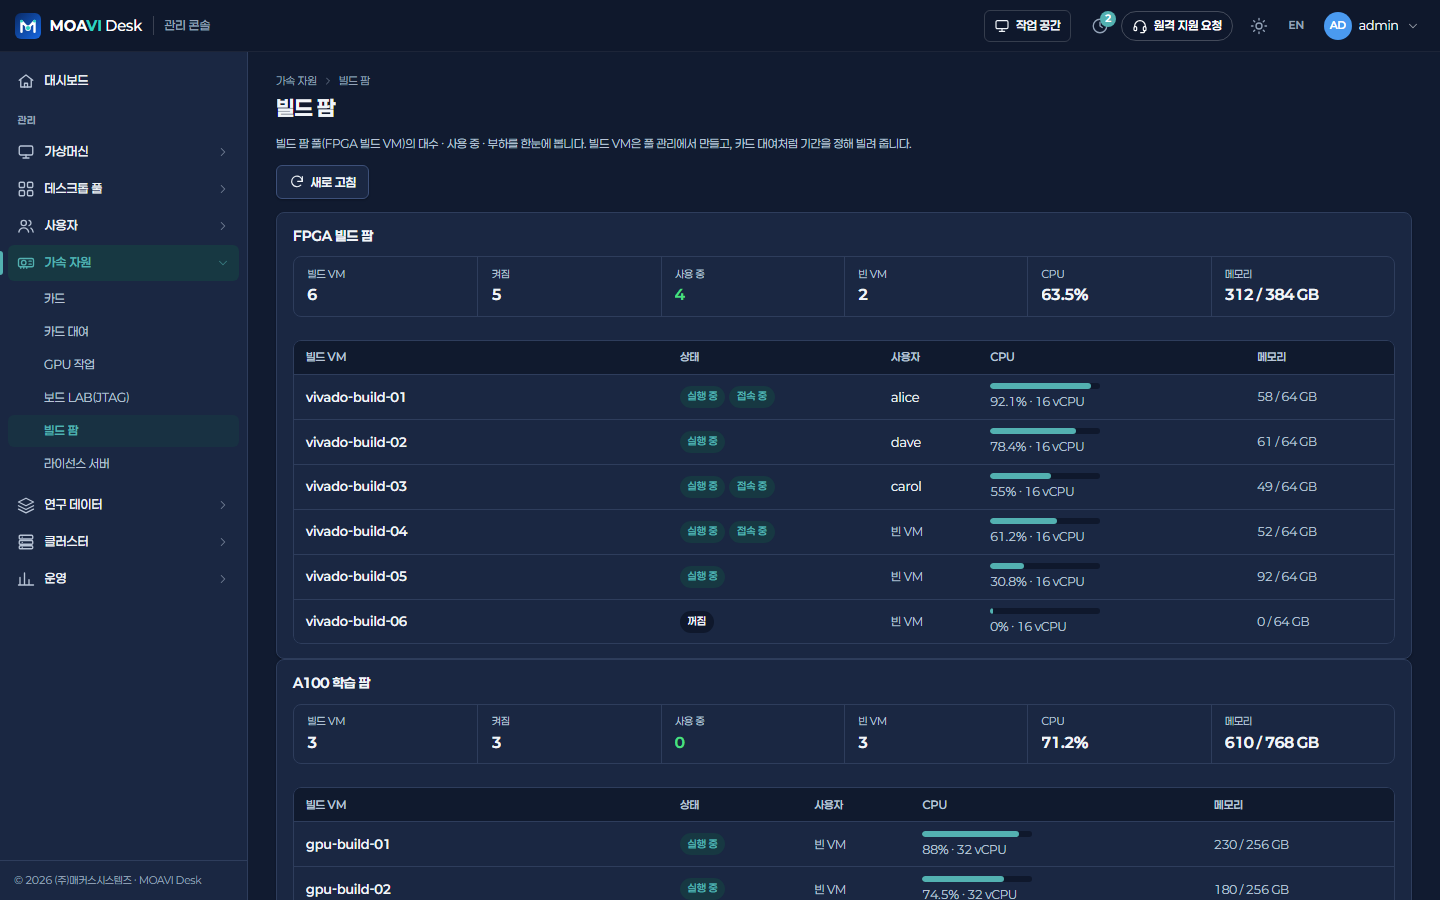
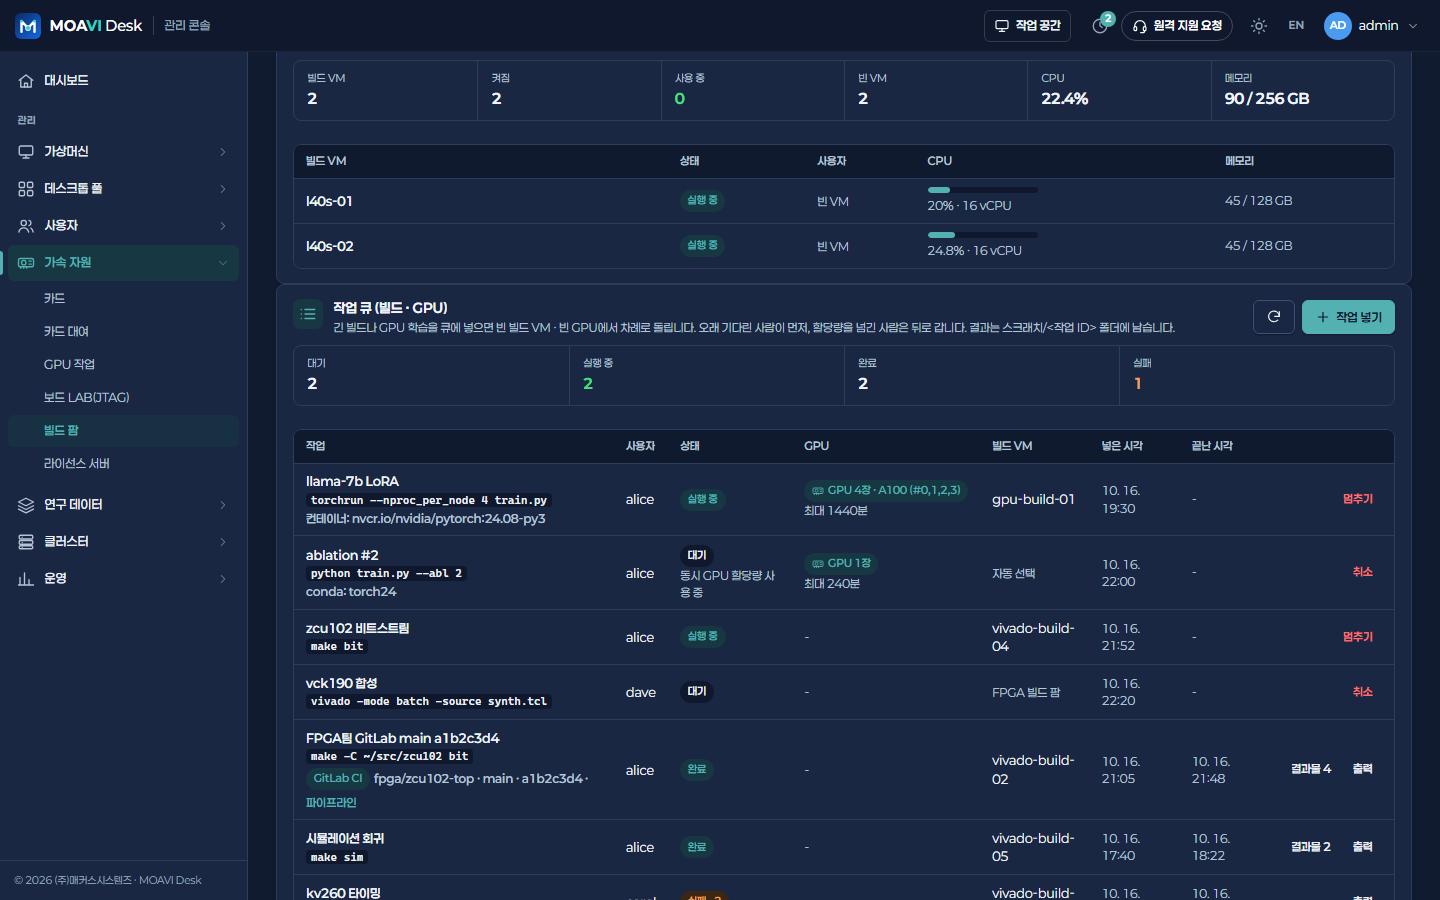
README: growth forecast, build results kept, CI connections, card / board bookings; deploy guide: the artifacts folder and CI calls

diff --git a/README.md b/README.md
@@ -71,8 +71,8 @@
 
 | | |
 |---|---|
-| **대시보드** — 상태 점수, CPU · 메모리 · VM · 접속 추이(24시간 · 7일 · 30일), 노드별 CPU, 활성 경보, 자원 제안(증설 · 회수) | |
-| ![대시보드](docs/images/admin-dashboard.png) | |
+| **대시보드** — 상태 점수, CPU · 메모리 · VM · 접속 추이(24시간 · 7일 · 30일), 노드별 CPU, 활성 경보, 자원 제안(증설 · 회수) | **증설 예측** — 날마다 쌓은 CPU · 메모리 · 스토리지 · 동시 접속 · 카드 사용의 추세선으로 기준에 닿는 날을 계산, 급한 것부터(30 · 90 · 180일) |
+| ![대시보드](docs/images/admin-dashboard.png) | ![증설 예측](docs/images/forecast.png) |
 
 **가상머신** — 데스크톱(VM) › 목록 · VM 만들기 · ISO · 이미지 · 풀별 상태, 이미지 › 템플릿 · 골든 이미지 · 환경 카탈로그
 
@@ -126,7 +126,7 @@
 | **일정 · 예약 › 사용 일정** — LAB × 일정형 풀 × 요일 · 시간의 주간 시간표, 시작 전 준비(빗금)와 끝난 뒤 초기화 | **예약 사용 보고서** (운영 › 보고서) — 예약 시간 대비 실제 사용, 노쇼, CSV |
 | ![LAB 사용 일정](docs/images/lab-schedules.png) | ![예약 보고서](docs/images/reservation-report.png) |
 
-**가속 자원** (GPU·AI · FPGA) — 카드 › 재고 · vGPU 프로필 · 리소스 매핑 · 패스스루 점검, 카드 대여 › 대여 현황 · 사용 보고서, GPU 작업 › 작업 큐 · 할당량 · GPU-시간 · 웹 IDE, 보드 LAB(JTAG), 빌드 팜, 라이선스 서버
+**가속 자원** (GPU·AI · FPGA) — 카드 › 재고 · vGPU 프로필 · 리소스 매핑 · 패스스루 점검, 카드 대여 › 대여 현황 · 예약 · 사용 보고서, GPU 작업 › 작업 큐 · 할당량 · GPU-시간 · 웹 IDE, 보드 LAB(JTAG), 빌드 팜 › 작업 큐 · CI 연동 · 결과물 보관, 라이선스 서버
 
 | | |
 |---|---|
@@ -138,8 +138,14 @@
 | ![GPU 작업 큐](docs/images/gpu-queue.png) | ![GPU 할당량](docs/images/gpu-quotas.png) |
 | **GPU 작업 › GPU-시간** — 사용자 · 부서별 작업 GPU-시간과 카드 대여 시간, 월 지정, CSV(비용 배분) | **GPU 작업 › 웹 IDE** — 열린 JupyterLab · VS Code 세션, 닫기, 게스트 준비 안내 |
 | ![GPU-시간](docs/images/gpu-hours.png) | ![웹 IDE](docs/images/web-ide.png) |
-| **보드 LAB(JTAG)** — 보드의 JTAG 케이블을 데스크톱에 연결, 대여 기간 · 자동 반납 | **빌드 팜** — 빌드 VM 부하, 작업 넣기 · 대기 · 실행 · 결과 출력 |
+| **보드 LAB(JTAG)** — 보드의 JTAG 케이블을 데스크톱에 연결, 대여 기간 · 자동 반납 | **빌드 팜 › 작업 큐** — 빌드 VM 부하, 작업 넣기 · 대기 · 실행 · 결과 출력, CI에서 온 작업(저장소 · 브랜치 · 커밋 · 파이프라인) |
 | ![보드 LAB](docs/images/boards.png) | ![빌드 작업 큐](docs/images/build-jobs.png) |
+| **빌드 결과물** — 작업이 끝나면 비트스트림 · 리포트 · 로그(풀마다 패턴)를 NAS 보관함에 남기고 [결과물]에서 받기, 반출 규칙 적용 | **빌드 팜 › 결과물 보관** — 기본 · 풀별 파일 패턴, 작업당 파일 수, 파일 크기 상한, 보관 기간 |
+| ![빌드 결과물](docs/images/build-results.png) | ![결과물 보관](docs/images/build-artifacts.png) |
+| **빌드 팜 › CI 연동** — GitLab CI · Jenkins · curl 연결, 풀 · 실행 사용자 · 명령, 한 번만 보이는 토큰, 켜고 끄기 · 새 토큰 | **CI 설정 예시** — .gitlab-ci.yml · Jenkinsfile · curl: 빌드 넣기 → 상태 보기 → 출력 · 결과물 받기 |
+| ![CI 연동](docs/images/ci-links.png) | ![CI 설정 예시](docs/images/ci-snippet.png) |
+| **카드 대여 › 예약** — 카드 · 보드 예약 승인 · 거절, 다가오는 · 사용 중인 예약, 지금 반납, 예약 규칙(승인 · 최대 길이 · 미리 예약 · 역할 · 알림) | **포털 예약 › 카드 · 보드** — GPU · NPU · FPGA 카드나 보드를 내 데스크톱에 쓸 시간 예약, 그날 예약된 시간, 내 예약 |
+| ![카드 · 보드 예약](docs/images/accel-bookings.png) | ![포털 카드 예약](docs/images/portal-accel-booking.png) |
 | **라이선스 서버** — FlexLM · vGPU 라이선스 서버 포트 감시(5분), 끊기면 메일 · 웹훅, 고정 MAC · HA | **라이선스 좌석** — 기능별 쓰는 좌석 · 대기 · 거절, 누가 쓰는지, 좌석 추이 |
 | ![라이선스 서버](docs/images/licenses.png) | ![라이선스 좌석](docs/images/license-seats.png) |
 
@@ -182,12 +188,12 @@
 
 | 메뉴 | 화면 › 탭 |
 |---|---|
-| 대시보드 | 인프라 모니터링(상태 점수 · 추이 · 경보), 자원 제안(증설 · 회수 · 유휴) |
+| 대시보드 | 인프라 모니터링(상태 점수 · 추이 · 경보), 자원 제안(증설 · 회수 · 유휴), **증설 예측**(추세로 기준에 닿는 날) |
 | 가상머신 | 데스크톱(VM) › 목록(설정 · 디스크 · 네트워크 · 스냅샷 · 노드 이동 · 템플릿 변환 · 삭제 · 화면 열기) · VM 만들기 · ISO · 이미지 · 풀별 상태 / 이미지 › 템플릿 · 골든 이미지(버전 · 배포 · 일괄 롤아웃) · 환경 카탈로그(GPU·AI · FPGA) |
 | 데스크톱 풀 | 풀(전용 · 초기화 · 공유 · 일정형 · 빌드 팜, 템플릿 일괄 복제, 할당, 초기화, 정책, 이용 권한, 공유 풀 접속 라우팅, 공유 저장소, GPU 정책 · MIG vGPU) / 접속 설정 › 게이트웨이 · USB 장치 · 외부 데스크톱(외부 접속) |
 | 사용자 | 사용자 › 사용자 목록(일괄 등록 · 만료일 · 비밀번호 · 2단계 인증 초기화 · 잠금 해제) · 가입 심사(가입) · 부서(가입 · 조직) / 권한 › 역할 · 유효 권한 조회(조직 · 권한) |
 | LAB | LAB › LAB 관리 · 단말(에이전트 · 등록 코드 · 설치 파일 · 한꺼번에 승인) / 일정 · 예약 › 예약(달력 · 승인 · 충돌 · 반복 · 자동 준비) · 사용 일정 · 일정형 풀, **LAB 키오스크**(`/kiosk`) — 모두 (LAB) |
-| 가속 자원 | 카드 › 재고(vGPU · MIG) · vGPU 프로필 · 리소스 매핑 · 패스스루 점검, 카드 대여 › 대여 현황(실사용률 · 유휴 회수) · 사용 보고서 (GPU·AI 또는 FPGA) / GPU 작업 › 작업 큐 · 할당량 · GPU-시간 · 웹 IDE (GPU·AI) / 보드 LAB(JTAG) · 빌드 팜 · 라이선스 서버(좌석) (FPGA) |
+| 가속 자원 | 카드 › 재고(vGPU · MIG) · vGPU 프로필 · 리소스 매핑 · 패스스루 점검, 카드 대여 › 대여 현황(실사용률 · 유휴 회수) · **예약**(카드 · 보드, 승인 · 자동 대여 · 반납) · 사용 보고서 (GPU·AI 또는 FPGA) / GPU 작업 › 작업 큐 · 할당량 · GPU-시간 · 웹 IDE (GPU·AI) / 보드 LAB(JTAG) · 빌드 팜 › 작업 큐 · **CI 연동** · **결과물 보관** · 라이선스 서버(좌석) (FPGA) |
 | 연구 데이터 | 데이터셋 › 데이터셋 · 반출 승인 · 반출 · 업로드 규칙 / 용량 · 보고서 › 용량 · 반출 보고서 (연구 데이터) |
 | 클러스터 | 클러스터 › 개요 · 노드 · 스토리지 · 고가용성(HA는 고가용성) / 클러스터 연결 |
 | 운영 | 요약 › 시스템 요약 · 작업 진행 / 기록 › 접속 기록 · 작업 기록(감사) / 보고서 › 사용률 · 운영 보고서(PDF) / 경보 / 백업(PBS) / 플랫폼 설정 › 일반 · 기능 · 도메인(AD/LDAP) · 화이트라벨 · 클라이언트(실습실 PC 설치) · 공지 · 서버 이중화(고가용성) · 지원 |
@@ -230,6 +236,24 @@
 | 관리자 | 가입 심사 대기, 데이터 반출 승인 요청, 계정 잠김, 라이선스 서버 끊김 · 좌석 부족, 공유 저장소 연결 실패, 대여 자동 반납 실패, 오래 기다리는 GPU 작업 | 각 기능의 설정 · 경보 채널 |
 
 긴 작업 실패는 그 클러스터에 경보 규칙 "작업 실패"가 있으면 그 규칙이 알리므로 두 번 보내지 않습니다.
+
+### 빌드 팜: CI 연동 · 결과물 보관 (가속 자원 > 빌드 팜)
+
+- **결과물 보관**: 빌드 · GPU 작업이 끝나면 엔진이 빌드 VM의 게스트 에이전트로(작업 사용자 권한) 작업 폴더에서 풀의 패턴에 맞는 파일을 찾아
+  공유 저장소의 `artifacts/<사용자>/<작업 ID>/`에 복사하고 작업에 목록을 남깁니다(기본 `*.bit *.bin *.xclbin *.xsa *.ltx *.sof *.pof *.rpt *.log`,
+  작업당 50개, 파일 하나 1 GB, 90일). NAS 루트에 `artifacts` 폴더를 scratch처럼 1777로 만들어 두세요. 없으면 작업 폴더에 있는 그대로 목록만 남습니다.
+  받기는 엔진의 NAS 관리용 마운트가 있으면 그대로, 없으면 빌드 VM의 에이전트로 10 MB까지 — 풀의 반출 규칙(연구 데이터)을 따릅니다.
+- **CI 연동**: 연결마다 빌드 팜 풀 하나 · 실행 사용자 · 명령을 정하고 토큰(`mci_…`, 한 번만 보임)을 CI 비밀 변수에 넣습니다. CI는
+  `POST /api/vlab/ci/jobs`(헤더 `Authorization: Bearer <토큰>`, `X-Requested-With: XMLHttpRequest`)로 저장소 · 브랜치 · 커밋 · 파이프라인을 보내고,
+  `GET /api/vlab/ci/jobs/<id>`로 상태 · 출력 끝부분 · 결과물 링크를 받습니다. 명령에는 `MOAVI_CI_REPO · _REF · _COMMIT · _URL · _PIPELINE`이 들어가고,
+  연결이 허용할 때만 CI가 명령을 바꿀 수 있습니다. 화면의 [설정 예시]에 .gitlab-ci.yml · Jenkinsfile · curl이 있습니다.
+
+### 카드 · 보드 예약 (포털 > 예약 › 카드 · 보드)
+
+사용자가 GPU · NPU · FPGA 카드(리소스 매핑의 아무 빈 카드)나 보드(JTAG)를 자기 데스크톱에 쓸 시간을 예약합니다. 매핑의 카드 수, 지금 대여 중인 것,
+같은 데스크톱의 다른 예약을 보고 겹치면 막습니다. 승인을 켜면 카드 대여 관리 권한이 있는 사람이 승인합니다. 시작 5분 전에 엔진이 대여(보드는 연결)를
+걸고 끝 시간이 되면 기존 자동 반납으로 돌려받으며, 사용 중 취소하면 바로 반납합니다. 카드는 데스크톱을 다시 시작해야 보입니다(시작 전 알림 메일).
+LAB을 쓰지 않는 사이트에서도 GPU · AI나 FPGA가 켜져 있으면 포털에 [예약]이 보입니다.
 
 ### 실습실 PC 등록 (LAB > LAB › 단말)
 
